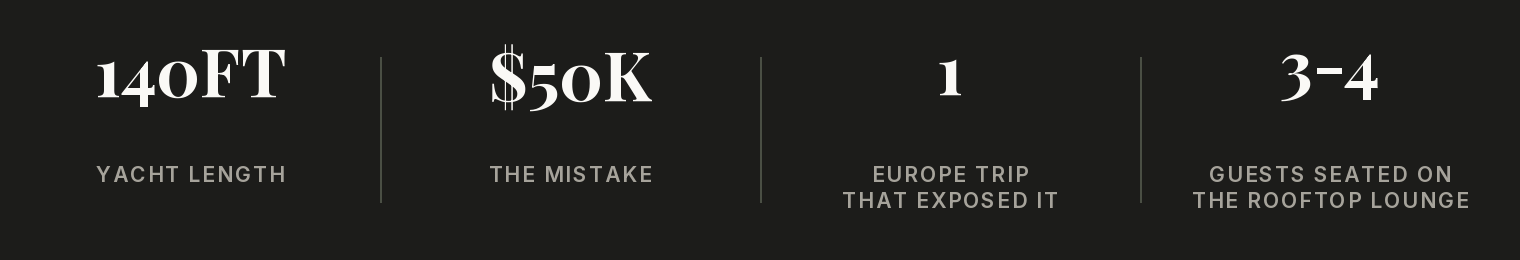
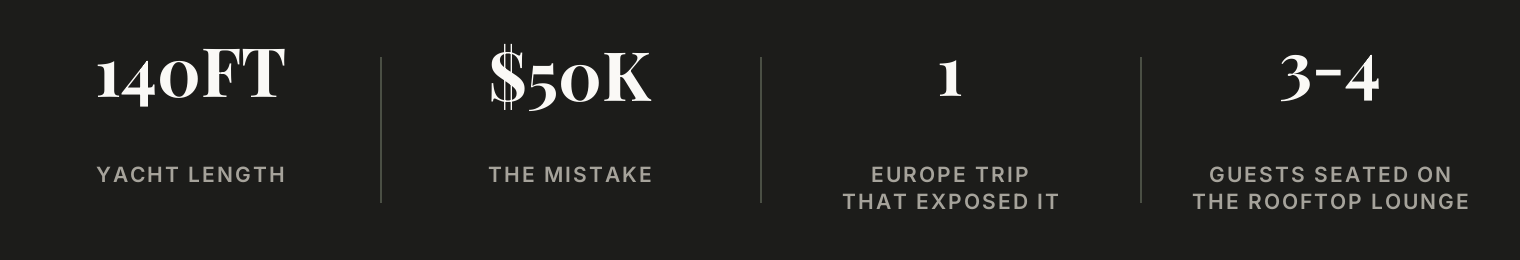
Refine pressure article with motivational interviewing examples

diff --git a/journal/the-pressure-comes-second.html b/journal/the-pressure-comes-second.html
@@ -4,19 +4,19 @@
 <meta charset="UTF-8">
 <meta name="viewport" content="width=device-width, initial-scale=1.0">
 <title>The Pressure Comes Second — Made From Effort</title>
-<meta name="description" content="Most coaches either explain gently forever or push immediately. Neither works as well as doing both, in the right order, and never making the deal worse because someone made you wait.">
+<meta name="description" content="Motivational interviewing, behavioral change, and nutritional coaching work best when the honest case comes before accountability.">
 <link rel="canonical" href="https://www.madefromeffort.com/journal/the-pressure-comes-second">
 <meta property="og:type" content="article">
 <meta property="og:url" content="https://www.madefromeffort.com/journal/the-pressure-comes-second">
 <meta property="og:title" content="The Pressure Comes Second">
-<meta property="og:description" content="Most coaches either explain gently forever or push immediately. Neither works as well as doing both, in the right order, and never making the deal worse because someone made you wait.">
+<meta property="og:description" content="Motivational interviewing, behavioral change, and nutritional coaching work best when the honest case comes before accountability.">
 <meta property="og:site_name" content="Made From Effort">
 <meta property="og:image" content="https://www.madefromeffort.com/og-image.jpg">
 <meta name="twitter:card" content="summary_large_image">
 <meta name="twitter:title" content="The Pressure Comes Second">
-<meta name="twitter:description" content="Most coaches either explain gently forever or push immediately. Neither works as well as doing both, in the right order, and never making the deal worse because someone made you wait.">
+<meta name="twitter:description" content="Motivational interviewing, behavioral change, and nutritional coaching work best when the honest case comes before accountability.">
 <meta name="twitter:image" content="https://www.madefromeffort.com/og-image.jpg">
-<script type="application/ld+json">{"@context": "https://schema.org", "@type": "Article", "headline": "The Pressure Comes Second", "description": "Most coaches either explain gently forever or push immediately. Neither works as well as doing both, in the right order, and never making the deal worse because someone made you wait.", "datePublished": "2026-10-18", "url": "https://www.madefromeffort.com/journal/the-pressure-comes-second", "author": {"@type": "Person", "name": "Scott Schratwieser"}, "publisher": {"@type": "Organization", "name": "Made From Effort", "url": "https://www.madefromeffort.com"}}</script>
+<script type="application/ld+json">{"@context": "https://schema.org", "@type": "Article", "headline": "The Pressure Comes Second", "description": "Motivational interviewing, behavioral change, and nutritional coaching work best when the honest case comes before accountability.", "datePublished": "2026-10-18", "url": "https://www.madefromeffort.com/journal/the-pressure-comes-second", "author": {"@type": "Person", "name": "Scott Schratwieser"}, "publisher": {"@type": "Organization", "name": "Made From Effort", "url": "https://www.madefromeffort.com"}}</script>
 <script src="/site-events.js?v=2" defer></script>
 <style>
   @import url('https://fonts.googleapis.com/css2?family=Playfair+Display:ital,wght@0,400;0,600;1,400;1,600&family=Inter:wght@300;400;500;600&display=swap');
@@ -76,27 +76,39 @@
     <div class="meta-row">October 18, 2026 &middot; Mindset</div>
     <div class="body-copy">
       
-      <p>Every coach eventually hits the same wall: a client who sees the evidence, agrees with it out loud, and still doesn't change anything. The instinct at that point splits two ways. Some coaches keep explaining, gently, indefinitely, hoping the tenth version of the same pitch lands differently than the first nine. Others skip straight to pressure — more check-ins, more guilt, more "you said you wanted this." Neither one works as well as doing both, in a specific order.</p>
-<h2 id="01-the-honest-case-comes-first">01 / The Honest Case Comes First</h2>
-<p>Before any pressure gets applied, the person has to actually see the real picture — not a softened version, the real one. What the current pattern is actually costing them. What's actually possible if something changes. A fair, genuinely good offer on the table, made plainly, with nothing held back and nothing oversold.</p>
+      <p>Every coach eventually works with a client who understands what needs to change and still does not change it. The client knows the workouts are inconsistent. They know dinner is being decided at the end of a long day. They can explain the pattern perfectly and keep repeating it anyway.</p>
+<p>The instinct splits two ways. Some coaches keep explaining, gently, indefinitely. Others go straight to pressure: more reminders, more guilt, more proof that the client said they wanted this. My approach is different: motivational interviewing first, then direct accountability when it is useful and agreed to.</p>
+<h2 id="01-the-honest-case-comes-first">01 / The honest case comes first</h2>
+<p>Before pressure is appropriate, the client has to see the real picture: which sessions get missed, what meals are available when work runs late, how sleep affects training, and what the current pattern is costing them.</p>
+<p>For one client, that conversation might show that a five-day training plan is structurally impossible. A three-session plan with a repeatable breakfast and prepared lunch may be the first offer that fits the life they are actually living.</p>
+<p>The offer may include personal training, a simple nutrition structure, and one or two behaviors to practice between sessions. Nothing is hidden and nothing is oversold.</p>
 <blockquote>
-<p>The honest version of the pitch has to come before any pressure does — not instead of it, before it.</p>
+<p>The honest version of the offer has to come before pressure does, not instead of it.</p>
 </blockquote>
-<p>This step gets skipped more than it should, usually because it feels like it's not doing anything. It's not loud. It doesn't feel like coaching. But it's what makes everything that might come after legitimate instead of manipulative — the person has to actually know what they're being offered and what it's worth before anything gets turned up.</p>
-<h2 id="02-if-that-doesnt-land-everything-moves-together">02 / If That Doesn't Land, Everything Moves Together</h2>
-<p>Here's the part most people get backwards. When the honest pitch doesn't work, the instinct is to push harder on the one thing that was already being pushed — more reminders about the missed sessions, more nagging about the same habit. That rarely works, because a single lever applied harder just reads as more noise on a channel the person has already learned to tune out.</p>
-<p>What actually shifts behavior is every relevant lever moving at once instead of one lever moving louder. Not just the missed session — the sleep that's making the sessions pointless, the environment that's making the habit hard to start, the accountability structure that's been too easy to slide past, the schedule that's quietly been given permission to win. Applied together, not sequentially, the old pattern stops having anywhere comfortable left to live.</p>
-<h2 id="03-the-offer-never-gets-worse-for-having-resisted">03 / The Offer Never Gets Worse for Having Resisted</h2>
-<p>This is the part that makes the whole approach work instead of just feeling like force. Once someone finally does come around — whether that took a week or three months of resistance — they get the exact same program, the exact same standard, the exact same full attention they would have gotten if they'd said yes on day one. Nothing about the deal gets harder because they made you wait. No punishment lap, no "well now you have to prove it."</p>
-<p>The temptation to make the holdout earn their way back in a little extra is real, and it's exactly the move that turns future buy-in into something people resist on principle. A client who sees that coming around costs them nothing extra comes around faster next time. A client who gets punished for resisting learns to never admit they were wrong in the first place.</p>
+<h2 id="02-when-the-pattern-holds-move-the-whole-system">02 / When the pattern holds, move the whole system</h2>
+<p>If the honest case does not lead to action, repeating the same reminder louder rarely helps. A missed workout may be connected to the food decisions around it, the time available, the environment at home, or the lack of a specific next step.</p>
+<p>That next conversation should be practical rather than punitive. We might move the training session to a time the client can protect, reduce the nutrition target to one repeatable meal, and agree on a check-in before the week gets away from them. The pressure is not a lecture. It is a set of decisions that makes the old pattern harder to keep choosing.</p>
+<h2 id="the-questions-clients-are-usually-asking">The questions clients are usually asking</h2>
+<p><strong>“I know what to do. Why am I still not doing it?”</strong></p>
+<p>Because knowing is not the same as having a repeatable way to do it on a difficult Tuesday. I use motivational interviewing techniques here: asking questions, listening for what matters to you, and helping you identify the change you are ready to make. Then we change the point where the plan breaks instead of asking you to rely on more willpower.</p>
+<p><strong>“Do I need to train five days a week?”</strong></p>
+<p>Not if five days makes the plan collapse by week two. The better starting offer may be three protected sessions, a short home option, and a progression you can sustain.</p>
+<p><strong>“What should I eat if I am trying to change my body?”</strong></p>
+<p>Start with meals already in your week. We might build one dependable breakfast, one repeatable lunch, and a dinner decision that does not require fresh discipline every night. Nutritional coaching should make the next good choice clearer, not turn your life into a list of forbidden foods.</p>
+<p><strong>“What if I miss a week?”</strong></p>
+<p>You do not start over and you do not get punished. We identify what disrupted the week, decide what the smallest return looks like, and continue.</p>
+<p><strong>“How much pressure should a coach use?”</strong></p>
+<p>Enough to make the decision honest, never enough to make the relationship unsafe. Motivational interviewing starts with your reasons for change rather than a coach trying to win an argument. I can reflect what I am hearing, name the cost of staying in the same pattern, and ask what you want to do next. Pressure should clarify the choice, not become guilt disguised as coaching.</p>
+<h2 id="03-the-offer-never-gets-worse-for-resisting">03 / The offer never gets worse for resisting</h2>
+<p>If a client takes a week or a month to decide they are ready, the offer should not become a punishment. They should receive the same standard of coaching and the same support for behavioral and nutritional change they would have received on day one.</p>
 <p><strong>What this means in practice:</strong></p>
 <ol>
-<li><strong>Lead with the full, honest, genuinely fair case — every time, before anything else.</strong> Skipping straight to pressure because you're confident you're right just teaches people to brace instead of listen.</li>
-<li><strong>When pressure is actually needed, move on every relevant front at once, not one thing louder.</strong> A single lever pushed harder is noise. Several real levers moving together is a changed environment.</li>
-<li><strong>Never make the outcome worse because someone resisted first.</strong> The goal was always the change, not making them pay for the delay. Punishing the comeback guarantees fewer of them.</li>
-<li><strong>Bring them all the way back in, not halfway.</strong> Someone who finally buys in should get the same full program and full attention as someone who said yes immediately — that's what makes the next hard conversation easier instead of harder.</li>
+<li><strong>Start with the full, honest case.</strong> Show the current pattern and offer a plan that fits the actual week.</li>
+<li><strong>Make the offer behavioral and nutritional, not just exercise-based.</strong> Training is one part of the change; meals, sleep, scheduling, and follow-through determine whether it survives outside the session.</li>
+<li><strong>When pressure is needed, change the conditions.</strong> Adjust the schedule, food environment, accountability, and next action.</li>
+<li><strong>Never punish the comeback.</strong> A client who returns should get the same full attention and clear standard as a client who started immediately.</li>
 </ol>
-<p>The order matters as much as the actions themselves. Honest case first. Full pressure, all at once, only if that's refused. And whichever way it goes, the same real offer waiting on the other side.</p>
+<p>The order matters. Make the honest case first. If it is refused, address the real conditions around the behavior. Keep the offer fair throughout.</p>
     </div>
     <div class="cta-wrap">
       <a href="https://www.madefromeffort.com/training.html" class="cta">Train with Me</a>

diff --git a/journal/the-pressure-comes-second-email.html b/journal/the-pressure-comes-second-email.html
@@ -44,8 +44,8 @@
       <button class="mini-copy" type="button" data-copy-text="The Pressure Comes Second">Copy</button>
     </div>
     <div class="field-row">
-      <div class="field-text"><b>Subtitle field:</b> Most coaches either explain gently forever or push immediately. Neither works as well as doing both, in the right order, and never making the deal worse because someone made you wait.</div>
-      <button class="mini-copy" type="button" data-copy-text="Most coaches either explain gently forever or push immediately. Neither works as well as doing both, in the right order, and never making the deal worse because someone made you wait.">Copy</button>
+      <div class="field-text"><b>Subtitle field:</b> Motivational interviewing, behavioral change, and nutritional coaching work best when the honest case comes before accountability.</div>
+      <button class="mini-copy" type="button" data-copy-text="Motivational interviewing, behavioral change, and nutritional coaching work best when the honest case comes before accountability.">Copy</button>
     </div>
     <div class="field-row">
       <div class="field-text"><b>Content tags:</b> Mindset, Coaching Philosophy, Accountability, Client Coaching</div>
@@ -56,27 +56,39 @@
     <div class="body-copy">
       
       
-      <p>Every coach eventually hits the same wall: a client who sees the evidence, agrees with it out loud, and still doesn't change anything. The instinct at that point splits two ways. Some coaches keep explaining, gently, indefinitely, hoping the tenth version of the same pitch lands differently than the first nine. Others skip straight to pressure — more check-ins, more guilt, more "you said you wanted this." Neither one works as well as doing both, in a specific order.</p>
-<h2 id="01-the-honest-case-comes-first">01 / The Honest Case Comes First</h2>
-<p>Before any pressure gets applied, the person has to actually see the real picture — not a softened version, the real one. What the current pattern is actually costing them. What's actually possible if something changes. A fair, genuinely good offer on the table, made plainly, with nothing held back and nothing oversold.</p>
+      <p>Every coach eventually works with a client who understands what needs to change and still does not change it. The client knows the workouts are inconsistent. They know dinner is being decided at the end of a long day. They can explain the pattern perfectly and keep repeating it anyway.</p>
+<p>The instinct splits two ways. Some coaches keep explaining, gently, indefinitely. Others go straight to pressure: more reminders, more guilt, more proof that the client said they wanted this. My approach is different: motivational interviewing first, then direct accountability when it is useful and agreed to.</p>
+<h2 id="01-the-honest-case-comes-first">01 / The honest case comes first</h2>
+<p>Before pressure is appropriate, the client has to see the real picture: which sessions get missed, what meals are available when work runs late, how sleep affects training, and what the current pattern is costing them.</p>
+<p>For one client, that conversation might show that a five-day training plan is structurally impossible. A three-session plan with a repeatable breakfast and prepared lunch may be the first offer that fits the life they are actually living.</p>
+<p>The offer may include personal training, a simple nutrition structure, and one or two behaviors to practice between sessions. Nothing is hidden and nothing is oversold.</p>
 <blockquote>
-<p>The honest version of the pitch has to come before any pressure does — not instead of it, before it.</p>
+<p>The honest version of the offer has to come before pressure does, not instead of it.</p>
 </blockquote>
-<p>This step gets skipped more than it should, usually because it feels like it's not doing anything. It's not loud. It doesn't feel like coaching. But it's what makes everything that might come after legitimate instead of manipulative — the person has to actually know what they're being offered and what it's worth before anything gets turned up.</p>
-<h2 id="02-if-that-doesnt-land-everything-moves-together">02 / If That Doesn't Land, Everything Moves Together</h2>
-<p>Here's the part most people get backwards. When the honest pitch doesn't work, the instinct is to push harder on the one thing that was already being pushed — more reminders about the missed sessions, more nagging about the same habit. That rarely works, because a single lever applied harder just reads as more noise on a channel the person has already learned to tune out.</p>
-<p>What actually shifts behavior is every relevant lever moving at once instead of one lever moving louder. Not just the missed session — the sleep that's making the sessions pointless, the environment that's making the habit hard to start, the accountability structure that's been too easy to slide past, the schedule that's quietly been given permission to win. Applied together, not sequentially, the old pattern stops having anywhere comfortable left to live.</p>
-<h2 id="03-the-offer-never-gets-worse-for-having-resisted">03 / The Offer Never Gets Worse for Having Resisted</h2>
-<p>This is the part that makes the whole approach work instead of just feeling like force. Once someone finally does come around — whether that took a week or three months of resistance — they get the exact same program, the exact same standard, the exact same full attention they would have gotten if they'd said yes on day one. Nothing about the deal gets harder because they made you wait. No punishment lap, no "well now you have to prove it."</p>
-<p>The temptation to make the holdout earn their way back in a little extra is real, and it's exactly the move that turns future buy-in into something people resist on principle. A client who sees that coming around costs them nothing extra comes around faster next time. A client who gets punished for resisting learns to never admit they were wrong in the first place.</p>
+<h2 id="02-when-the-pattern-holds-move-the-whole-system">02 / When the pattern holds, move the whole system</h2>
+<p>If the honest case does not lead to action, repeating the same reminder louder rarely helps. A missed workout may be connected to the food decisions around it, the time available, the environment at home, or the lack of a specific next step.</p>
+<p>That next conversation should be practical rather than punitive. We might move the training session to a time the client can protect, reduce the nutrition target to one repeatable meal, and agree on a check-in before the week gets away from them. The pressure is not a lecture. It is a set of decisions that makes the old pattern harder to keep choosing.</p>
+<h2 id="the-questions-clients-are-usually-asking">The questions clients are usually asking</h2>
+<p><strong>“I know what to do. Why am I still not doing it?”</strong></p>
+<p>Because knowing is not the same as having a repeatable way to do it on a difficult Tuesday. I use motivational interviewing techniques here: asking questions, listening for what matters to you, and helping you identify the change you are ready to make. Then we change the point where the plan breaks instead of asking you to rely on more willpower.</p>
+<p><strong>“Do I need to train five days a week?”</strong></p>
+<p>Not if five days makes the plan collapse by week two. The better starting offer may be three protected sessions, a short home option, and a progression you can sustain.</p>
+<p><strong>“What should I eat if I am trying to change my body?”</strong></p>
+<p>Start with meals already in your week. We might build one dependable breakfast, one repeatable lunch, and a dinner decision that does not require fresh discipline every night. Nutritional coaching should make the next good choice clearer, not turn your life into a list of forbidden foods.</p>
+<p><strong>“What if I miss a week?”</strong></p>
+<p>You do not start over and you do not get punished. We identify what disrupted the week, decide what the smallest return looks like, and continue.</p>
+<p><strong>“How much pressure should a coach use?”</strong></p>
+<p>Enough to make the decision honest, never enough to make the relationship unsafe. Motivational interviewing starts with your reasons for change rather than a coach trying to win an argument. I can reflect what I am hearing, name the cost of staying in the same pattern, and ask what you want to do next. Pressure should clarify the choice, not become guilt disguised as coaching.</p>
+<h2 id="03-the-offer-never-gets-worse-for-resisting">03 / The offer never gets worse for resisting</h2>
+<p>If a client takes a week or a month to decide they are ready, the offer should not become a punishment. They should receive the same standard of coaching and the same support for behavioral and nutritional change they would have received on day one.</p>
 <p><strong>What this means in practice:</strong></p>
 <ol>
-<li><strong>Lead with the full, honest, genuinely fair case — every time, before anything else.</strong> Skipping straight to pressure because you're confident you're right just teaches people to brace instead of listen.</li>
-<li><strong>When pressure is actually needed, move on every relevant front at once, not one thing louder.</strong> A single lever pushed harder is noise. Several real levers moving together is a changed environment.</li>
-<li><strong>Never make the outcome worse because someone resisted first.</strong> The goal was always the change, not making them pay for the delay. Punishing the comeback guarantees fewer of them.</li>
-<li><strong>Bring them all the way back in, not halfway.</strong> Someone who finally buys in should get the same full program and full attention as someone who said yes immediately — that's what makes the next hard conversation easier instead of harder.</li>
+<li><strong>Start with the full, honest case.</strong> Show the current pattern and offer a plan that fits the actual week.</li>
+<li><strong>Make the offer behavioral and nutritional, not just exercise-based.</strong> Training is one part of the change; meals, sleep, scheduling, and follow-through determine whether it survives outside the session.</li>
+<li><strong>When pressure is needed, change the conditions.</strong> Adjust the schedule, food environment, accountability, and next action.</li>
+<li><strong>Never punish the comeback.</strong> A client who returns should get the same full attention and clear standard as a client who started immediately.</li>
 </ol>
-<p>The order matters as much as the actions themselves. Honest case first. Full pressure, all at once, only if that's refused. And whichever way it goes, the same real offer waiting on the other side.</p>
+<p>The order matters. Make the honest case first. If it is refused, address the real conditions around the behavior. Keep the offer fair throughout.</p>
     </div>
     <div class="body-copy">
       

diff --git a/journal/index.html b/journal/index.html
@@ -80,7 +80,7 @@
       <a class="post-item" href="https://www.madefromeffort.com/journal/the-pressure-comes-second">
         <div class="post-item-date">October 18, 2026 &middot; <span class="post-item-category">Mindset</span></div>
         <div class="post-item-title">The Pressure Comes Second</div>
-        <div class="post-item-excerpt">Most coaches either explain gently forever or push immediately. Neither works as well as doing both, in the right order, and never making the deal worse because someone made you wait.</div>
+        <div class="post-item-excerpt">Motivational interviewing, behavioral change, and nutritional coaching work best when the honest case comes before accountability.</div>
       </a>
       <a class="post-item" href="https://www.madefromeffort.com/journal/the-only-thing-that-can-t-be-copied">
         <div class="post-item-date">October 15, 2026 &middot; <span class="post-item-category">Mindset</span></div>

diff --git a/posts/2026-10-18-the-pressure-comes-second.md b/posts/2026-10-18-the-pressure-comes-second.md
@@ -1,40 +1,64 @@
 ---
 title: The Pressure Comes Second
 date: 2026-10-18
-excerpt: Most coaches either explain gently forever or push immediately. Neither works as well as doing both, in the right order, and never making the deal worse because someone made you wait.
+excerpt: Motivational interviewing, behavioral change, and nutritional coaching work best when the honest case comes before accountability.
 issue: "035"
 cta_text: Train with Me
 tags: Mindset, Coaching Philosophy, Accountability, Client Coaching
 category: Mindset
 ---
 
-Every coach eventually hits the same wall: a client who sees the evidence, agrees with it out loud, and still doesn't change anything. The instinct at that point splits two ways. Some coaches keep explaining, gently, indefinitely, hoping the tenth version of the same pitch lands differently than the first nine. Others skip straight to pressure — more check-ins, more guilt, more "you said you wanted this." Neither one works as well as doing both, in a specific order.
+Every coach eventually works with a client who understands what needs to change and still does not change it. The client knows the workouts are inconsistent. They know dinner is being decided at the end of a long day. They can explain the pattern perfectly and keep repeating it anyway.
 
-## 01 / The Honest Case Comes First
+The instinct splits two ways. Some coaches keep explaining, gently, indefinitely. Others go straight to pressure: more reminders, more guilt, more proof that the client said they wanted this. My approach is different: motivational interviewing first, then direct accountability when it is useful and agreed to.
 
-Before any pressure gets applied, the person has to actually see the real picture — not a softened version, the real one. What the current pattern is actually costing them. What's actually possible if something changes. A fair, genuinely good offer on the table, made plainly, with nothing held back and nothing oversold.
+## 01 / The honest case comes first
 
-> The honest version of the pitch has to come before any pressure does — not instead of it, before it.
+Before pressure is appropriate, the client has to see the real picture: which sessions get missed, what meals are available when work runs late, how sleep affects training, and what the current pattern is costing them.
 
-This step gets skipped more than it should, usually because it feels like it's not doing anything. It's not loud. It doesn't feel like coaching. But it's what makes everything that might come after legitimate instead of manipulative — the person has to actually know what they're being offered and what it's worth before anything gets turned up.
+For one client, that conversation might show that a five-day training plan is structurally impossible. A three-session plan with a repeatable breakfast and prepared lunch may be the first offer that fits the life they are actually living.
 
-## 02 / If That Doesn't Land, Everything Moves Together
+The offer may include personal training, a simple nutrition structure, and one or two behaviors to practice between sessions. Nothing is hidden and nothing is oversold.
 
-Here's the part most people get backwards. When the honest pitch doesn't work, the instinct is to push harder on the one thing that was already being pushed — more reminders about the missed sessions, more nagging about the same habit. That rarely works, because a single lever applied harder just reads as more noise on a channel the person has already learned to tune out.
+> The honest version of the offer has to come before pressure does, not instead of it.
 
-What actually shifts behavior is every relevant lever moving at once instead of one lever moving louder. Not just the missed session — the sleep that's making the sessions pointless, the environment that's making the habit hard to start, the accountability structure that's been too easy to slide past, the schedule that's quietly been given permission to win. Applied together, not sequentially, the old pattern stops having anywhere comfortable left to live.
+## 02 / When the pattern holds, move the whole system
 
-## 03 / The Offer Never Gets Worse for Having Resisted
+If the honest case does not lead to action, repeating the same reminder louder rarely helps. A missed workout may be connected to the food decisions around it, the time available, the environment at home, or the lack of a specific next step.
 
-This is the part that makes the whole approach work instead of just feeling like force. Once someone finally does come around — whether that took a week or three months of resistance — they get the exact same program, the exact same standard, the exact same full attention they would have gotten if they'd said yes on day one. Nothing about the deal gets harder because they made you wait. No punishment lap, no "well now you have to prove it."
+That next conversation should be practical rather than punitive. We might move the training session to a time the client can protect, reduce the nutrition target to one repeatable meal, and agree on a check-in before the week gets away from them. The pressure is not a lecture. It is a set of decisions that makes the old pattern harder to keep choosing.
 
-The temptation to make the holdout earn their way back in a little extra is real, and it's exactly the move that turns future buy-in into something people resist on principle. A client who sees that coming around costs them nothing extra comes around faster next time. A client who gets punished for resisting learns to never admit they were wrong in the first place.
+## The questions clients are usually asking
+
+**“I know what to do. Why am I still not doing it?”**
+
+Because knowing is not the same as having a repeatable way to do it on a difficult Tuesday. I use motivational interviewing techniques here: asking questions, listening for what matters to you, and helping you identify the change you are ready to make. Then we change the point where the plan breaks instead of asking you to rely on more willpower.
+
+**“Do I need to train five days a week?”**
+
+Not if five days makes the plan collapse by week two. The better starting offer may be three protected sessions, a short home option, and a progression you can sustain.
+
+**“What should I eat if I am trying to change my body?”**
+
+Start with meals already in your week. We might build one dependable breakfast, one repeatable lunch, and a dinner decision that does not require fresh discipline every night. Nutritional coaching should make the next good choice clearer, not turn your life into a list of forbidden foods.
+
+**“What if I miss a week?”**
+
+You do not start over and you do not get punished. We identify what disrupted the week, decide what the smallest return looks like, and continue.
+
+**“How much pressure should a coach use?”**
+
+Enough to make the decision honest, never enough to make the relationship unsafe. Motivational interviewing starts with your reasons for change rather than a coach trying to win an argument. I can reflect what I am hearing, name the cost of staying in the same pattern, and ask what you want to do next. Pressure should clarify the choice, not become guilt disguised as coaching.
+
+## 03 / The offer never gets worse for resisting
+
+If a client takes a week or a month to decide they are ready, the offer should not become a punishment. They should receive the same standard of coaching and the same support for behavioral and nutritional change they would have received on day one.
 
 **What this means in practice:**
 
-1. **Lead with the full, honest, genuinely fair case — every time, before anything else.** Skipping straight to pressure because you're confident you're right just teaches people to brace instead of listen.
-2. **When pressure is actually needed, move on every relevant front at once, not one thing louder.** A single lever pushed harder is noise. Several real levers moving together is a changed environment.
-3. **Never make the outcome worse because someone resisted first.** The goal was always the change, not making them pay for the delay. Punishing the comeback guarantees fewer of them.
-4. **Bring them all the way back in, not halfway.** Someone who finally buys in should get the same full program and full attention as someone who said yes immediately — that's what makes the next hard conversation easier instead of harder.
+1. **Start with the full, honest case.** Show the current pattern and offer a plan that fits the actual week.
+2. **Make the offer behavioral and nutritional, not just exercise-based.** Training is one part of the change; meals, sleep, scheduling, and follow-through determine whether it survives outside the session.
+3. **When pressure is needed, change the conditions.** Adjust the schedule, food environment, accountability, and next action.
+4. **Never punish the comeback.** A client who returns should get the same full attention and clear standard as a client who started immediately.
 
-The order matters as much as the actions themselves. Honest case first. Full pressure, all at once, only if that's refused. And whichever way it goes, the same real offer waiting on the other side.
+The order matters. Make the honest case first. If it is refused, address the real conditions around the behavior. Keep the offer fair throughout.
